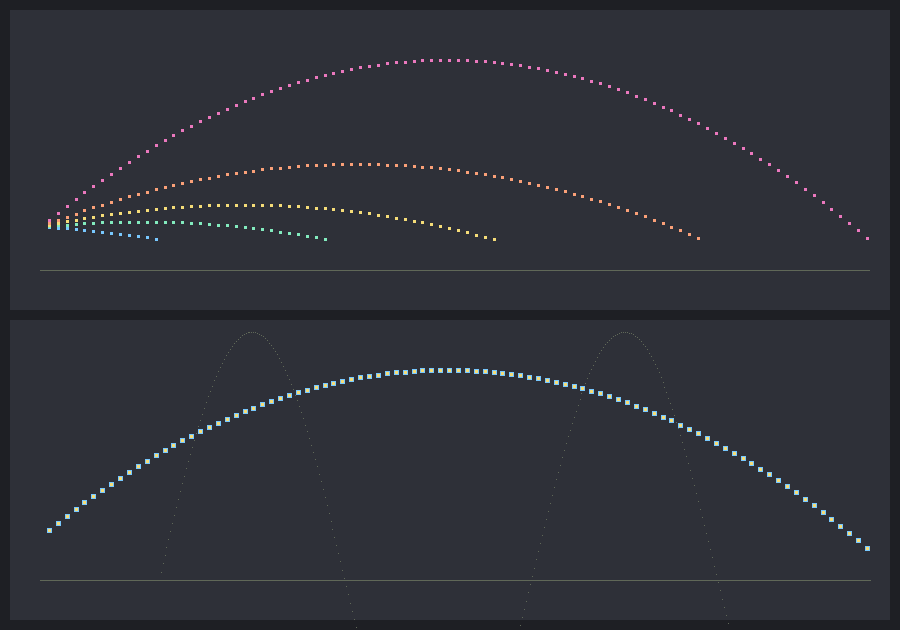
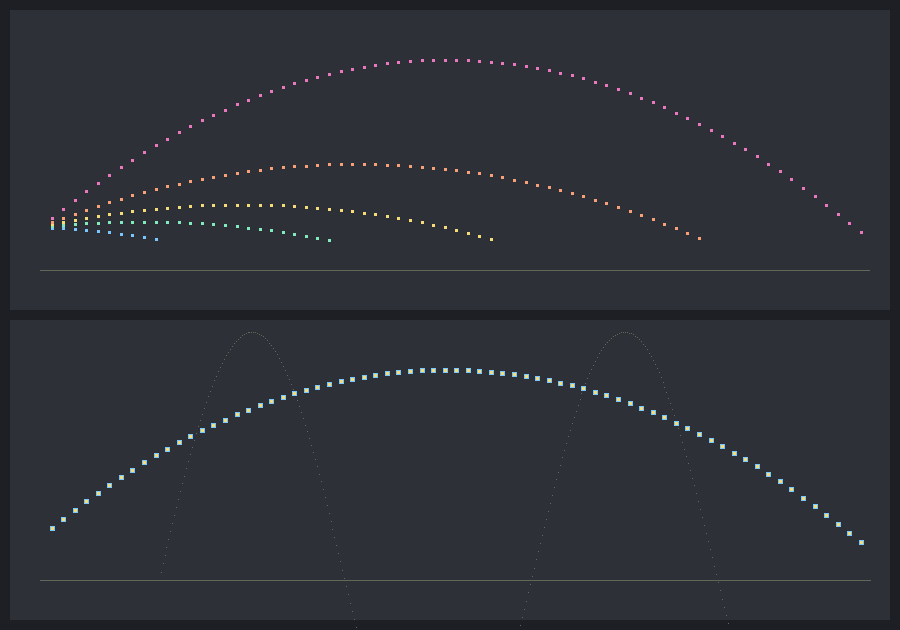
the shot was still a third too slow to read as one
PROJECTILE_SPEED_SCALE 0.3 -> 0.39: the knob spec 087 left for exactly this,
turned once now the flight has been watched. Every shot is 30% faster than it
was flying, and no row moves.

The reach follows for free, because projectileLifetimeTicks divides the
lifetime by the same scale: a row still covers the ground it says it covers,
and only how long that takes changes -- a hunting shot crosses its full range
in 1.2s rather than 1.56s.

Also fixes a stale "Spec 081" beside projectileSpeedFor that the two
renumberings missed, because they only matched a lowercase "spec".

Claude-Session: https://claude.ai/code/session_01TSxdupDtys2BtpatZMp6fd

diff --git a/src/server/player/stats.ts b/src/server/player/stats.ts
@@ -237,13 +237,19 @@ export function basicAttackFor(player: PersistedPlayer): string {
  * their whole range in a handful of frames, which makes a travelling attack
  * indistinguishable from a scheduled one. One line to move when the flight has
  * been watched for long enough to know what the number should be.
+ *
+ * Watched, and moved once: 0.3 was a third again too slow to read as a *shot*
+ * rather than as a thrown pebble, so this is that number a third faster. The
+ * reach does not move with it -- {@link projectileLifetimeTicks} divides the
+ * lifetime by the same scale, so a row still covers exactly the ground it says
+ * and only the time it takes changes.
  */
-export const PROJECTILE_SPEED_SCALE = 0.3;
+export const PROJECTILE_SPEED_SCALE = 0.39;
 
 /**
  * World units per second for a shot of this row (spec 088).
  *
- * The shooter is deliberately not asked. Spec 081 scaled this by the weapon's
+ * The shooter is deliberately not asked. Spec 087 scaled this by the weapon's
  * speed stat, which read correctly while that stat was a multiplier and stopped
  * reading at all once it became a delay -- a *longer* wait between shots would
  * have meant a *faster* one. How soon the next arrow may be loosed and how fast

diff --git a/specs/087-arrows-shuriken-and-a-shot-you-can-watch.md b/specs/087-arrows-shuriken-and-a-shot-you-can-watch.md
@@ -154,7 +154,7 @@ run through":
  * knob, not a per-row retune: one line to move when the flight has been
  * watched enough to know what it should be.
  */
-export const PROJECTILE_SPEED_SCALE = 0.3;
+export const PROJECTILE_SPEED_SCALE = 0.39;   // 0.3 as first written; retuned once
 
 /** World units per second, for a shot this body looses. */
 export function projectileSpeedFor(baseSpeed: number, stats: EffectiveStats): number;
@@ -172,7 +172,7 @@ shot to it means the fast weapon both swings and looses fast, and the Iron
 Maul's `-0.2` reads as heft in both halves of what it does.
 
 **Reach is preserved, and that is not a nicety.** A projectile's reach in world
-units is `speed / 60 * lifetimeTicks`. Cut the speed to 30% and leave the ticks
+units is `speed / 60 * lifetimeTicks`. Cut the speed to a third and leave the ticks
 alone, and `bolt.arcane` expires at 372 units of its 700-unit range, `bolt.lob`
 at 360 of 520 — two abilities that can no longer reach what `startCast` will
 happily let you aim at. That is not a speed change, it is a silent range nerf.
@@ -195,8 +195,10 @@ only thing that moves is how long the flight takes — which is the whole point.
 - **Every projectile ability can still reach its own range**: that reach is
   `>= ability.range` for every row, which is the assertion that would have
   caught the naive speed cut.
-- **A shot flies at 30% of its table speed** for a body whose `attackSpeed` is
-  1, and `PROJECTILE_SPEED_SCALE` is the only place that fraction is written.
+- **A shot flies at `PROJECTILE_SPEED_SCALE` of its table speed** for a body
+  whose `attackSpeed` is 1, and that constant is the only place the fraction is
+  written -- the assertion names it rather than a literal, because it is a knob
+  and has already been turned once (0.3 to 0.39, after watching the flight).
 - **The weapon decides.** A caster with a higher `attackSpeed` looses a
   proportionally faster shot and a proportionally shorter-lived one; the same
   shot from a slower caster arrives strictly later, and both arrive.

diff --git a/.claude/notes/combat.md b/.claude/notes/combat.md
@@ -302,14 +302,16 @@ transform; `activity`/`activityUntilTick` drive animation state on the wire.
 - **A shot's speed is no longer a table constant.** `launchProjectile` runs
   `spec.speed` through `projectileSpeedFor(baseSpeed, stats)` in
   `player/stats.ts`: `baseSpeed * clamp(attackSpeed) * PROJECTILE_SPEED_SCALE`,
-  where the scale is a deliberate global 30% knob and `attackSpeed` is the same
+  where the scale is a deliberate global knob (0.3 as first written, 0.39 since
+  the flight was watched) and `attackSpeed` is the same
   clamped weapon stat `attackIntervalTicks` divides by. One weapon speed, both
   halves of what it means.
 - **`lifetimeTicks` is a reach, not a duration.** `projectileLifetimeTicks`
   re-times it as `lifetimeTicks * spec.speed / actualSpeed`, so every row keeps
   the exact distance the table describes for every shooter. Do not "simplify"
-  this back to a raw tick count: at 30% speed that expires `bolt.arcane` at 372
-  units of its 700-unit range and `bolt.lob` at 360 of 520.
+  this back to a raw tick count: at any scale under 1 it expires a shot short of
+  its own range -- at 0.3 that was `bolt.arcane` at 372 units of its 700 and
+  `bolt.lob` at 360 of 520.
 - **`ProjectileSpec.look`** (`'orb' | 'arrow' | 'shuriken'`, default orb) is a
   *picture*. Nothing under `src/server/sim/` reads it, and it rides no wire — a
   projectile entity's `typeId` is already its ability id and the table is shared
